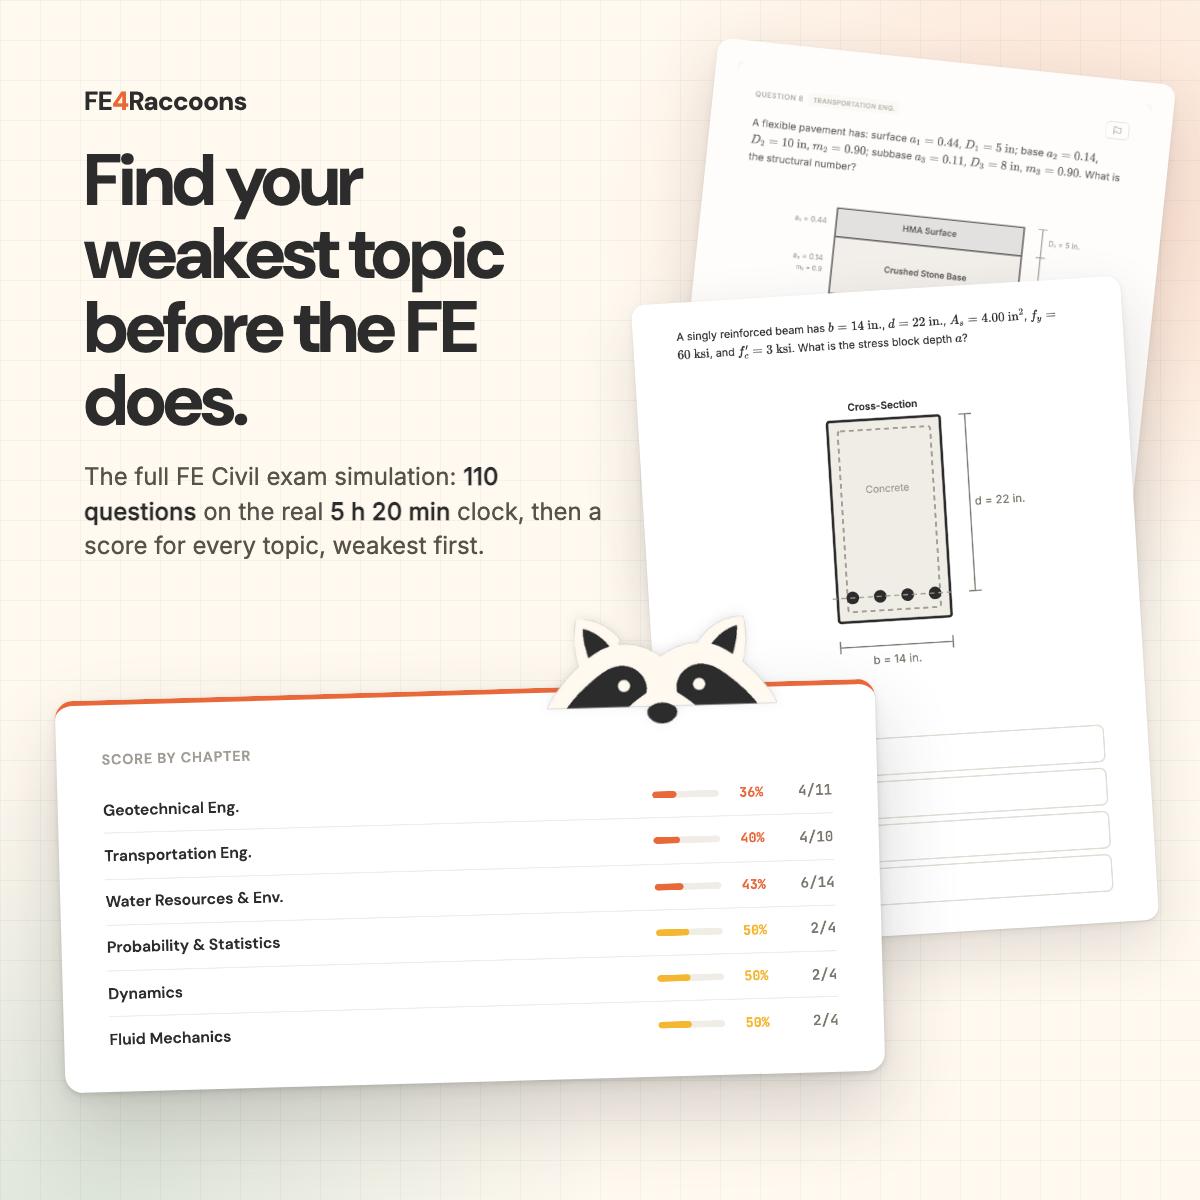
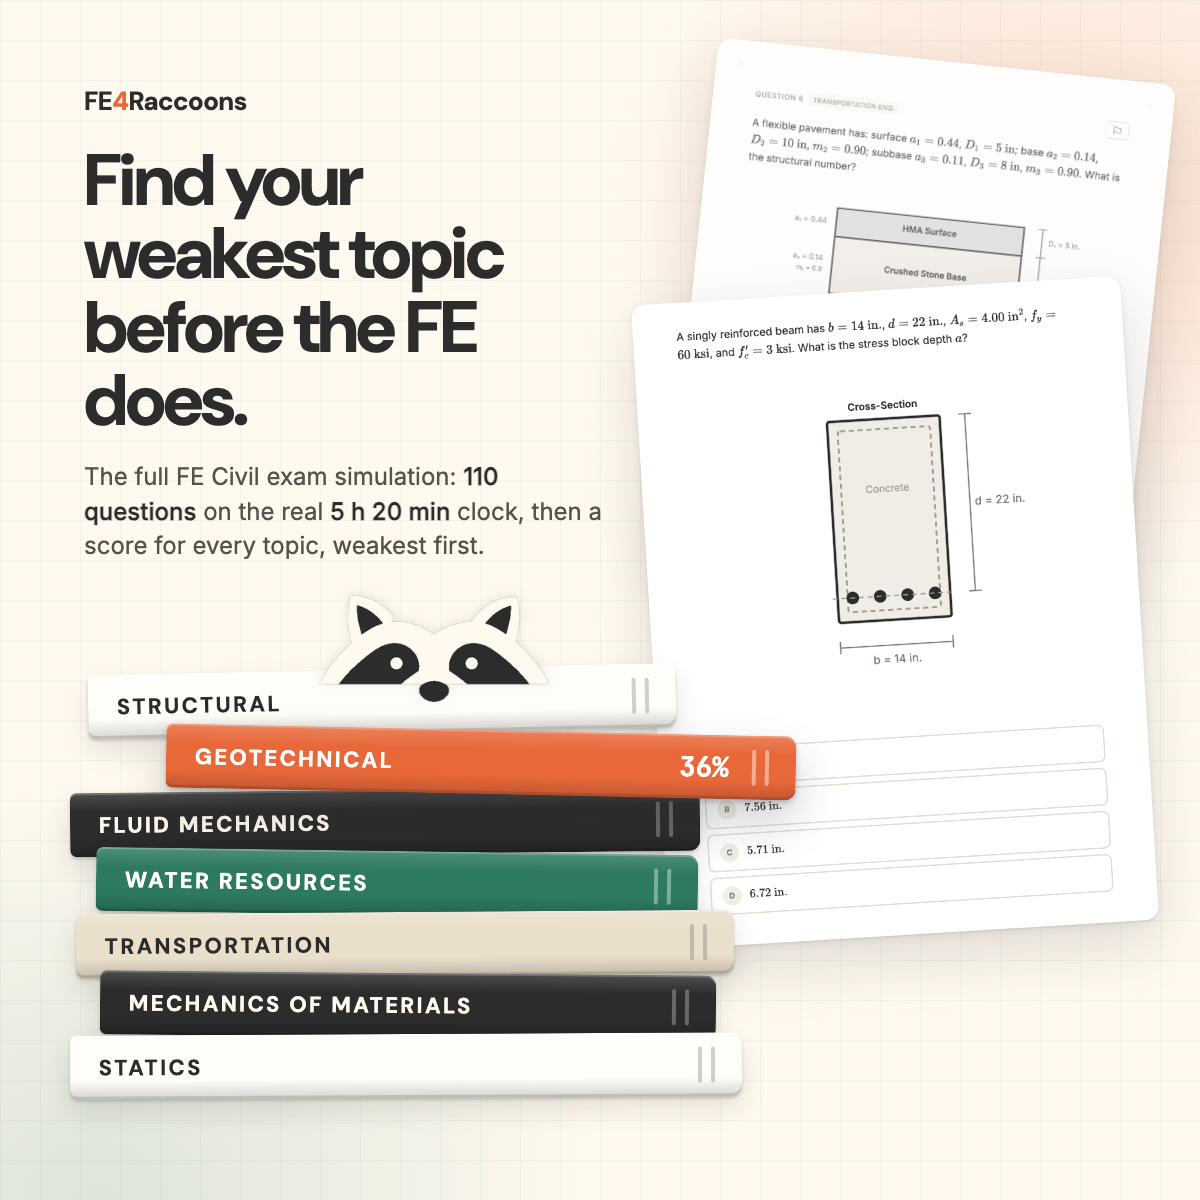
Exam simulation picture: topics as a stack of books, the weakest pulled out

Changed region(s): [[0.0308, 0.4933, 0.74, 0.925]]

diff --git a/scripts/sim-image/template.html b/scripts/sim-image/template.html
@@ -3,14 +3,16 @@
 <head>
 <meta charset="utf-8">
 <!-- Source of the exam simulation product pictures (public/exam-sim-*.png),
-     rendered by scripts/gen-sim-image.mjs. Every object is a real capture:
-     two question pages from the exam screen (the free preview, same screen and
-     bank as the paid sitting) and the score-by-chapter section of the results
-     screen. No overall score, no pass badge, no price: Google shows the price
-     beside the picture, and a sample score alone reads as a promise. -->
+     rendered by scripts/gen-sim-image.mjs. The two question pages are real
+     captures of the exam screen (the free preview: same screen and bank as the
+     paid sitting). The books are the topics as the results screen sorts them,
+     weakest first, with that one pulled out; 36% is the weakest score in the
+     example report on /exam-simulation. No overall score, no pass badge, no
+     price: Google shows the price beside the picture, and a sample score
+     alone reads as a promise. -->
 <link rel="preconnect" href="https://fonts.googleapis.com">
 <link rel="preconnect" href="https://fonts.gstatic.com" crossorigin>
-<link href="https://fonts.googleapis.com/css2?family=DM+Sans:opsz,wght@9..40,500;9..40,600;9..40,700&family=Inter:wght@400;500&display=swap" rel="stylesheet">
+<link href="https://fonts.googleapis.com/css2?family=DM+Sans:opsz,wght@9..40,500;9..40,600;9..40,700&family=Inter:wght@400;500&family=JetBrains+Mono:wght@700&display=swap" rel="stylesheet">
 <style>
   :root {
     --cream: #FFF9F0;
@@ -72,22 +74,68 @@
     background: rgba(255,249,240,0.28);
   }
 
-  .report {
-    position: absolute;
-    background: #fff;
-    border-radius: 18px;
-    padding: 30px 32px 26px;
-    border-top: 5px solid var(--ember);
-    box-shadow: 0 2px 4px rgba(44,44,44,0.12), 0 6px 14px rgba(44,44,44,0.08), 0 36px 80px rgba(44,44,44,0.20);
+  /* The topics as a stack of books, the weakest pulled half out. Spines are
+     shaded like a rounded cover: light on the top edge, dark on the bottom. */
+  .stack { position: absolute; }
+  .book {
+    position: relative;
+    display: flex;
+    align-items: center;
+    height: var(--bh);
+    width: calc(var(--w) * 1%);
+    margin: calc(var(--bh) * -0.05) 0 0 calc(var(--x) * 1px);
+    padding: 0 0 0 calc(var(--bh) * 0.45);
+    border-radius: 7px 11px 11px 7px;
+    transform: rotate(calc(var(--r) * 1deg));
+    font-family: 'DM Sans', sans-serif;
+    font-weight: 700;
+    font-size: var(--bf);
+    letter-spacing: 0.11em;
+    text-transform: uppercase;
+    background: linear-gradient(180deg, rgba(255,255,255,0.16), rgba(255,255,255,0) 30%, rgba(0,0,0,0) 70%, rgba(0,0,0,0.16)), var(--c);
+    color: var(--t);
+    box-shadow: inset 0 2px 0 rgba(255,255,255,0.22), inset 0 -3px 0 rgba(0,0,0,0.12),
+      0 2px 3px rgba(44,44,44,0.20), 0 12px 26px rgba(44,44,44,0.12);
   }
-  .report img.shot { display: block; width: 100%; }
+  /* Binding bands near the spine's end. */
+  .book::before, .book::after {
+    content: '';
+    position: absolute;
+    top: 22%;
+    bottom: 22%;
+    width: 4px;
+    border-radius: 2px;
+    background: var(--band);
+  }
+  .book::before { right: calc(var(--bh) * 0.62); }
+  .book::after { right: calc(var(--bh) * 0.42); }
+  .book .pct {
+    margin-left: auto;
+    margin-right: calc(var(--bh) * 1.05);
+    font-family: 'JetBrains Mono', monospace;
+    font-weight: 700;
+    letter-spacing: 0;
+    font-size: calc(var(--bf) * 1.25);
+  }
+  .book.pulled {
+    z-index: 2;
+    box-shadow: inset 0 2px 0 rgba(255,255,255,0.22), inset 0 -3px 0 rgba(0,0,0,0.12),
+      0 3px 5px rgba(44,44,44,0.24), 0 22px 44px rgba(44,44,44,0.22);
+  }
+  .ch { --c: #2C2C2C; --t: #FFF9F0; --band: rgba(255,249,240,0.30); }
+  .em { --c: #E8683A; --t: #FFFFFF; --band: rgba(255,255,255,0.45); }
+  .fo { --c: #2D7A5F; --t: #FFFFFF; --band: rgba(255,255,255,0.38); }
+  .cr { --c: #FFFDF8; --t: #2C2C2C; --band: rgba(44,44,44,0.22); }
+  .sa { --c: #EADFCB; --t: #2C2C2C; --band: rgba(44,44,44,0.22); }
+
   /* The raccoon peeks over the report's top edge: flat bottom of its face on
      the edge, nose over the card. */
   .peek {
     position: absolute;
     top: 0;
     width: 230px;
-    transform: translate(-50%, -100%) translateY(34px);
+    z-index: 3;
+    transform: translate(-50%, -100%) translateY(var(--peek-dip, 30px));
     filter: drop-shadow(0 0 0.6px rgba(44,44,44,0.55)) drop-shadow(0 -2px 6px rgba(44,44,44,0.10));
   }
 
@@ -98,8 +146,8 @@
   .square .lead { font-size: 24px; }
   .square .p1 { left: 690px; top: 60px; width: 460px; transform: rotate(6deg); }
   .square .p2 { left: 650px; top: 290px; width: 490px; transform: rotate(-3.5deg); }
-  .square .report { left: 60px; top: 690px; width: 820px; transform: rotate(-1.6deg); }
-  .square .peek { left: 74%; }
+  .square .stack { left: 70px; top: 672px; width: 700px; --bh: 64px; --bf: 22px; }
+  .square .peek { left: 52%; }
 
   /* ---- 4:3, 1200 x 900 ---- */
   body.four { --w: 1200px; --h: 900px; }
@@ -108,18 +156,18 @@
   .four .lead { font-size: 22px; }
   .four .p1 { left: 700px; top: 40px; width: 420px; transform: rotate(6deg); }
   .four .p2 { left: 640px; top: 220px; width: 450px; transform: rotate(-3.5deg); }
-  .four .report { left: 64px; top: 520px; width: 700px; transform: rotate(-1.6deg); }
-  .four .peek { left: 76%; width: 210px; }
+  .four .stack { left: 64px; top: 492px; width: 600px; --bh: 54px; --bf: 19px; }
+  .four .peek { left: 53%; width: 200px; }
 
   /* ---- 16:9, 1600 x 900 ---- */
   body.wide { --w: 1600px; --h: 900px; }
-  .wide .words { left: 96px; top: 150px; width: 600px; }
+  .wide .words { left: 96px; top: 230px; width: 600px; }
   .wide h1 { font-size: 76px; }
   .wide .lead { font-size: 25px; }
   .wide .p1 { left: 1110px; top: 40px; width: 430px; transform: rotate(7deg); }
   .wide .p2 { left: 1010px; top: 150px; width: 460px; transform: rotate(-3deg); }
-  .wide .report { left: 700px; top: 470px; width: 700px; transform: rotate(-1.6deg); }
-  .wide .peek { left: 24%; width: 210px; }
+  .wide .stack { left: 700px; top: 470px; width: 620px; --bh: 56px; --bf: 19px; }
+  .wide .peek { left: 53%; width: 200px; }
 </style>
 </head>
 <body class="square">
@@ -132,9 +180,15 @@
   <div class="page back p1"><img src="q-pavement.png" alt=""></div>
   <div class="page p2"><img src="q-beam.png" alt=""></div>
 
-  <div class="report">
+  <div class="stack">
     <img class="peek" src="raccoon-peek.png" alt="">
-    <img class="shot" src="score-by-chapter.png" alt="">
+    <div class="book cr" style="--w:84;--x:18;--r:-1.2">Structural</div>
+    <div class="book em pulled" style="--w:90;--x:96;--r:1.2">Geotechnical<span class="pct">36%</span></div>
+    <div class="book ch" style="--w:90;--x:0;--r:-0.6">Fluid Mechanics</div>
+    <div class="book fo" style="--w:86;--x:26;--r:0.8">Water Resources</div>
+    <div class="book sa" style="--w:94;--x:6;--r:-0.4">Transportation</div>
+    <div class="book ch" style="--w:88;--x:30;--r:0.5">Mechanics of Materials</div>
+    <div class="book cr" style="--w:96;--x:0;--r:-0.3">Statics</div>
   </div>
 
   <script>
